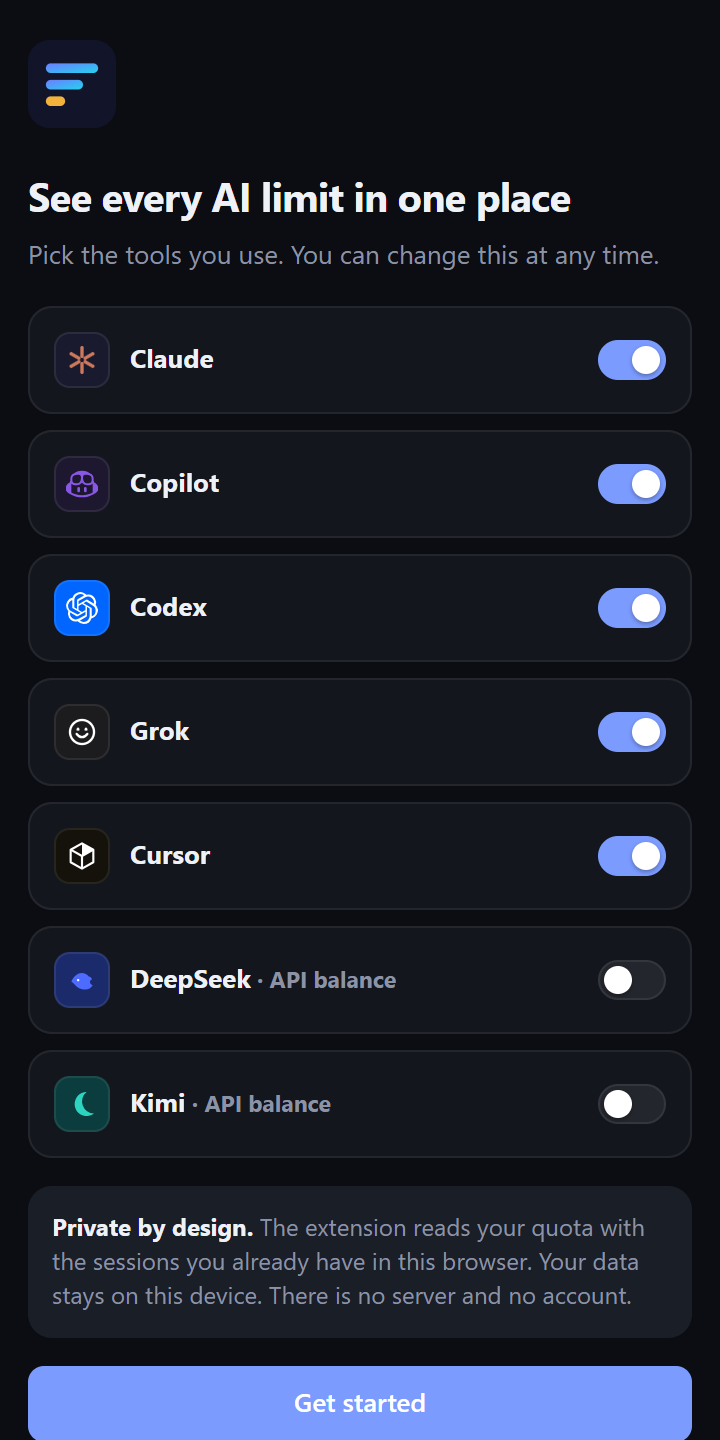
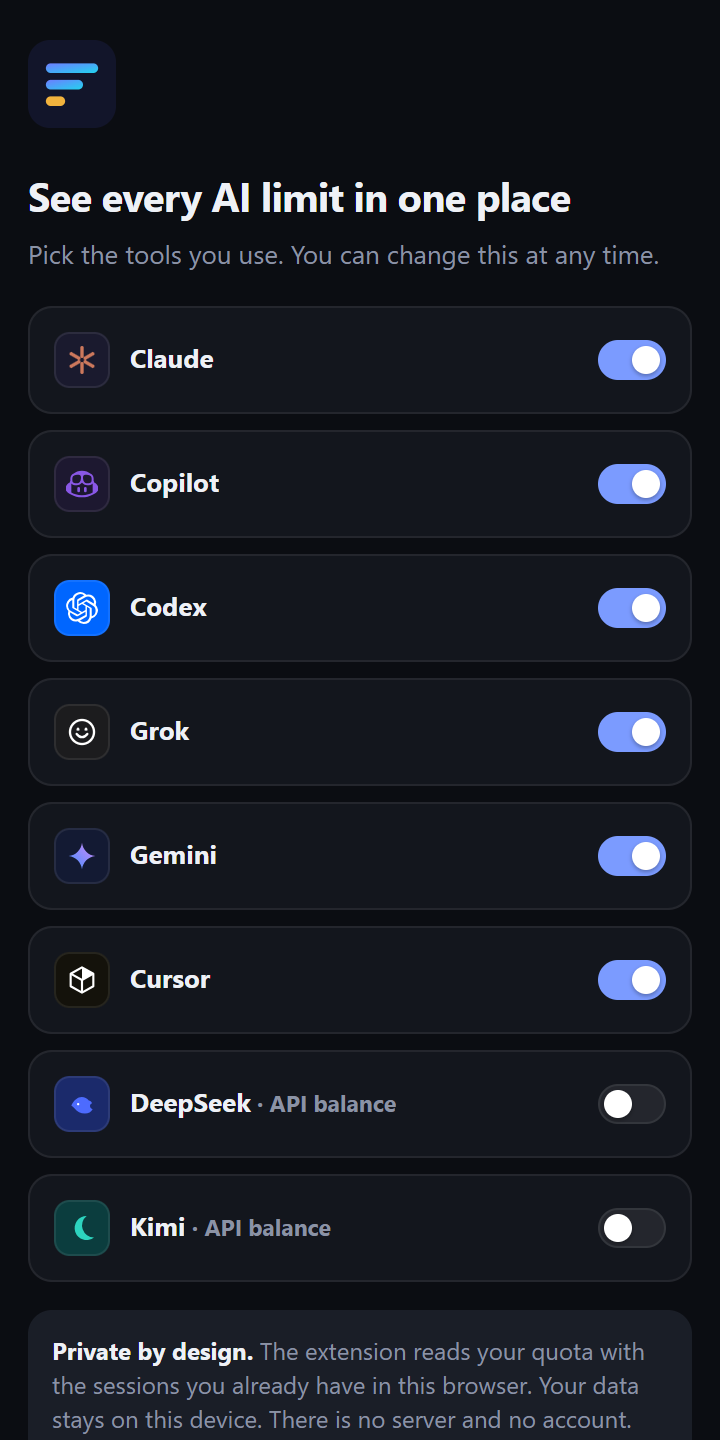
Add Gemini usage and release 3.1.0
- Read the Gemini 5-hour and weekly limits from the private jSf9Qc
  RPC behind gemini.google.com/usage (captured in issue #66).
- Pure mapGeminiUsage and extractBatchexecutePayload in core, with tests.
- Run the fetcher in the worker and in the gemini.google.com bridge.
- Add Gemini to the privacy policy, store text, website and art.

diff --git a/packages/core/src/gemini.ts b/packages/core/src/gemini.ts
@@ -1,0 +1,73 @@
+import type { QuotaState } from './types.js';
+
+/**
+ * Gemini app usage. Private batchexecute RPC `jSf9Qc` on gemini.google.com
+ * (the Settings > Usage limits page). Captured in issue #66.
+ * Payload: [version, windows[], flag]. Each window: [limit, used, type, [[resetSeconds, nanos]]].
+ * Type 1 = 5-hour window (session). Type 2 = weekly.
+ */
+
+export const GEMINI_USAGE_RPC = 'jSf9Qc';
+
+/** Inner payload of one RPC from a batchexecute response body (after the `)]}'` guard). */
+export function extractBatchexecutePayload(body: string, rpcId: string): unknown {
+  for (const line of body.split('\n')) {
+    if (!line.startsWith('[[')) continue;
+    let frames: unknown;
+    try {
+      frames = JSON.parse(line);
+    } catch {
+      continue;
+    }
+    if (!Array.isArray(frames)) continue;
+    for (const frame of frames) {
+      if (Array.isArray(frame) && frame[0] === 'wrb.fr' && frame[1] === rpcId && typeof frame[2] === 'string') {
+        try {
+          return JSON.parse(frame[2]);
+        } catch {
+          return undefined;
+        }
+      }
+    }
+  }
+  return undefined;
+}
+
+export function geminiUsageUnknown(lastUpdated: number = Date.now()): QuotaState {
+  return { service: 'gemini', honesty: 'usage_unknown', lastUpdated };
+}
+
+interface Window {
+  pct: number;
+  resetsAt?: number;
+}
+
+function readWindow(raw: unknown): (Window & { type: number }) | undefined {
+  if (!Array.isArray(raw)) return undefined;
+  const [limit, used, type, reset] = raw;
+  if (typeof limit !== 'number' || typeof used !== 'number' || typeof type !== 'number') return undefined;
+  // ponytail: used > limit means the field order changed; refuse rather than guess.
+  if (limit <= 0 || used < 0 || used > limit) return undefined;
+  const pct = Math.round(((limit - used) / limit) * 100);
+  const seconds = Array.isArray(reset) && Array.isArray(reset[0]) ? reset[0][0] : undefined;
+  return typeof seconds === 'number' && seconds > 0 ? { type, pct, resetsAt: seconds * 1000 } : { type, pct };
+}
+
+export function mapGeminiUsage(payload: unknown, lastUpdated: number = Date.now()): QuotaState {
+  if (!Array.isArray(payload) || !Array.isArray(payload[1])) return geminiUsageUnknown(lastUpdated);
+  const windows = (payload[1] as unknown[]).map(readWindow);
+  const session = windows.find((w) => w?.type === 1);
+  const weekly = windows.find((w) => w?.type === 2);
+  if (!session && !weekly) return geminiUsageUnknown(lastUpdated);
+
+  const state: QuotaState = { service: 'gemini', lastUpdated };
+  if (session) {
+    state.sessionPct = session.pct;
+    if (session.resetsAt != null) state.sessionResetsAt = session.resetsAt;
+  }
+  if (weekly) {
+    state.weeklyPct = weekly.pct;
+    if (weekly.resetsAt != null) state.weeklyResetsAt = weekly.resetsAt;
+  }
+  return state;
+}

diff --git a/packages/chrome-ext/src/background/fetchers/gemini.ts b/packages/chrome-ext/src/background/fetchers/gemini.ts
@@ -1,0 +1,50 @@
+import type { QuotaState } from '@ai-quota-tool/core';
+import {
+  extractBatchexecutePayload,
+  GEMINI_USAGE_RPC,
+  geminiUsageUnknown,
+  mapGeminiUsage,
+  sessionExpired,
+} from '@ai-quota-tool/core';
+import type { ServiceFetcher } from './base.js';
+
+// Private RPC behind gemini.google.com/usage (issue #66). The page tokens
+// (at = SNlM0e, bl = cfb2h) come from the app HTML; cookies carry auth.
+const ORIGIN = 'https://gemini.google.com';
+
+function pageToken(html: string, key: string): string | undefined {
+  return new RegExp(`"${key}":"([^"]+)"`).exec(html)?.[1];
+}
+
+export class GeminiFetcher implements ServiceFetcher {
+  readonly serviceId = 'gemini' as const;
+
+  async fetch(): Promise<QuotaState> {
+    const now = Date.now();
+    const page = await fetch(`${ORIGIN}/app`, { credentials: 'include' });
+    if (!page.ok) throw new Error(`Gemini page returned ${page.status}`);
+    const html = await page.text();
+    const at = pageToken(html, 'SNlM0e');
+    const bl = pageToken(html, 'cfb2h');
+    // No XSRF token means no signed-in session.
+    if (!at || !bl) return sessionExpired('gemini', now);
+
+    const body = new URLSearchParams({
+      'f.req': JSON.stringify([[[GEMINI_USAGE_RPC, '[]', null, 'generic']]]),
+      at,
+    });
+    const res = await fetch(
+      `${ORIGIN}/_/BardChatUi/data/batchexecute?rpcids=${GEMINI_USAGE_RPC}&source-path=%2Fusage&bl=${encodeURIComponent(bl)}&rt=c`,
+      {
+        method: 'POST',
+        credentials: 'include',
+        headers: { 'Content-Type': 'application/x-www-form-urlencoded;charset=UTF-8' },
+        body,
+      },
+    );
+    if (res.status === 401) return sessionExpired('gemini', now);
+    if (!res.ok) throw new Error(`Gemini usage RPC returned ${res.status}`);
+    const payload = extractBatchexecutePayload(await res.text(), GEMINI_USAGE_RPC);
+    return payload === undefined ? geminiUsageUnknown(now) : mapGeminiUsage(payload, now);
+  }
+}

diff --git a/packages/core/src/gemini.test.ts b/packages/core/src/gemini.test.ts
@@ -1,0 +1,55 @@
+import { describe, expect, it } from 'vitest';
+import { extractBatchexecutePayload, mapGeminiUsage } from './gemini.js';
+
+const RAW = `)]}'
+
+188
+[["wrb.fr","jSf9Qc","[2,[[48384,0,2,[[1790777593,651754000]]],[2400,0,1,[[1790230393,651662000]]]],false]",null,null,null,"generic"],["di",222]]
+25
+[["e",4,null,null,224]]
+`;
+
+describe('extractBatchexecutePayload', () => {
+  it('returns the inner JSON for the RPC id', () => {
+    expect(extractBatchexecutePayload(RAW, 'jSf9Qc')).toEqual([
+      2,
+      [
+        [48384, 0, 2, [[1790777593, 651754000]]],
+        [2400, 0, 1, [[1790230393, 651662000]]],
+      ],
+      false,
+    ]);
+  });
+
+  it('returns undefined for another id or a bad body', () => {
+    expect(extractBatchexecutePayload(RAW, 'other')).toBeUndefined();
+    expect(extractBatchexecutePayload('nope', 'jSf9Qc')).toBeUndefined();
+  });
+});
+
+describe('mapGeminiUsage', () => {
+  it('maps the 5-hour window to session and the weekly window to weekly', () => {
+    const payload = [2, [[48384, 12096, 2, [[1790777593, 0]]], [2400, 600, 1, [[1790230393, 0]]]], false];
+    expect(mapGeminiUsage(payload, 5)).toEqual({
+      service: 'gemini',
+      sessionPct: 75,
+      sessionResetsAt: 1790230393000,
+      weeklyPct: 75,
+      weeklyResetsAt: 1790777593000,
+      lastUpdated: 5,
+    });
+  });
+
+  it('reads zero usage as 100% left', () => {
+    const payload = extractBatchexecutePayload(RAW, 'jSf9Qc');
+    const state = mapGeminiUsage(payload, 1);
+    expect(state.sessionPct).toBe(100);
+    expect(state.weeklyPct).toBe(100);
+  });
+
+  it('never invents a percent from an unknown shape', () => {
+    for (const payload of [undefined, null, [], [2, 'x'], [2, [[0, 0, 1, []]]], [2, [[10, 20, 1, []]]]]) {
+      expect(mapGeminiUsage(payload, 1)).toEqual({ service: 'gemini', honesty: 'usage_unknown', lastUpdated: 1 });
+    }
+  });
+});

diff --git a/site/index.html b/site/index.html
@@ -6,7 +6,7 @@
     <title>AI Quota Tool - every AI limit in one glance</title>
     <meta
       name="description"
-      content="Free Chrome extension. See your Claude, Codex, Copilot, Cursor and Grok limits in one side panel. Private, no account, no server."
+      content="Free Chrome extension. See your Claude, Codex, Gemini, Cursor, Copilot and Grok limits in one side panel. Private, no account, no server."
     />
     <meta property="og:title" content="AI Quota Tool" />
     <meta property="og:description" content="Every AI limit in one glance. Free, private, no account." />
@@ -103,7 +103,7 @@
           <div>
             <h1>Every AI limit in one glance</h1>
             <p class="lead">
-              See your Claude, Codex, Copilot, Cursor and Grok limits in the Chrome side panel. Know what is
+              See your Claude, Codex, Gemini, Cursor, Copilot and Grok limits in the Chrome side panel. Know what is
               left and when it resets, before a limit stops your work.
             </p>
             <div class="cta">
@@ -155,7 +155,7 @@
         <h2>Works with the tools you use</h2>
         <div class="providers">
           <span class="chip">Claude</span><span class="chip">Codex (ChatGPT)</span><span class="chip">GitHub Copilot</span>
-          <span class="chip">Cursor</span><span class="chip">Grok</span><span class="chip">DeepSeek API balance</span>
+          <span class="chip">Gemini</span><span class="chip">Cursor</span><span class="chip">Grok</span><span class="chip">DeepSeek API balance</span>
           <span class="chip">Kimi API balance</span>
         </div>
       </section>

diff --git a/packages/chrome-ext/store/art.html b/packages/chrome-ext/store/art.html
@@ -155,7 +155,7 @@
             <div style="position:absolute;left:100px;top:0;bottom:0;width:640px;display:flex;flex-direction:column;justify-content:center;gap:24px">
               <div style="display:flex;align-items:center;gap:20px">${mark(88)}<span class="name" style="font-size:60px">AI Quota Tool</span></div>
               <h1 class="headline" style="font-size:44px">See every AI limit before it stops your work</h1>
-              <p class="sub" style="font-size:22px">Claude · Codex · Copilot · Cursor · Grok · DeepSeek · Kimi</p>
+              <p class="sub" style="font-size:22px">Claude · Codex · Gemini · Cursor · Copilot · Grok</p>
             </div>
             <img class="panel fade" src="panels/dashboard-dark.png" style="position:absolute;right:120px;top:60px;height:760px" />
           </div>`,
@@ -163,7 +163,7 @@
           shot(
             'All your AI tools',
             'Every AI limit in one glance',
-            'Session, weekly and monthly limits for Claude, Codex, Cursor, Grok and more. Live in the Chrome side panel.',
+            'Session, weekly and monthly limits for Claude, Codex, Gemini, Cursor and more. Live in the Chrome side panel.',
             panel('dashboard-dark'),
           ),
         shot2: () =>

diff --git a/packages/ui/src/components/QuotaPendingCard.tsx b/packages/ui/src/components/QuotaPendingCard.tsx
@@ -1,13 +1,14 @@
 import type React from 'react';
 import type { ServiceId } from '@ai-quota-tool/core';
 import { SERVICE_COLORS, SERVICE_LABELS } from '@ai-quota-tool/core';
-import { ClaudeLogo, CopilotLogo, CodexLogo, CursorLogo, DeepSeekLogo, GrokLogo, KimiLogo } from './logos.js';
+import { ClaudeLogo, CopilotLogo, CodexLogo, CursorLogo, DeepSeekLogo, GeminiLogo, GrokLogo, KimiLogo } from './logos.js';
 
 const LOGOS: Record<ServiceId, React.ReactNode> = {
   claude: <ClaudeLogo size={20} />,
   copilot: <CopilotLogo size={20} />,
   codex: <CodexLogo size={20} />,
   grok: <GrokLogo size={20} />,
+  gemini: <GeminiLogo size={20} />,
   cursor: <CursorLogo size={20} />,
   deepseek: <DeepSeekLogo size={20} />,
   kimi: <KimiLogo size={20} />,
@@ -19,6 +20,7 @@ const PENDING_HINTS: Record<ServiceId, string> = {
   copilot: 'Sign in to GitHub for seat status (remaining % often unavailable)',
   codex: 'Set up a ChatGPT session token, or open chatgpt.com while signed in',
   grok: 'Set up a grok.com sso cookie in Set Up Accounts',
+  gemini: 'Open gemini.google.com while signed in',
   cursor: 'Open cursor.com while signed in',
   deepseek: 'Paste an API key from platform.deepseek.com',
   kimi: 'Paste an API key from platform.kimi.ai',

diff --git a/packages/chrome-ext/src/content/quota-bridge.ts b/packages/chrome-ext/src/content/quota-bridge.ts
@@ -1,15 +1,17 @@
-// Runs inside the claude.ai / chatgpt.com page context, so fetch() is same-origin
+// Runs inside the claude.ai / chatgpt.com / gemini.google.com page context, so fetch() is same-origin
 // — bypassing the CORS restrictions that block extension service workers from
 // hitting these internal quota APIs.
 import type { QuotaState } from '@ai-quota-tool/core';
 import { ClaudeFetcher } from '../background/fetchers/claude.js';
 import { CodexFetcher } from '../background/fetchers/codex.js';
+import { GeminiFetcher } from '../background/fetchers/gemini.js';
 
 type BridgeFetcher = { fetch(): Promise<QuotaState> };
 
 const SITE_FETCHERS: Partial<Record<string, BridgeFetcher>> = {
   'claude.ai': new ClaudeFetcher(),
   'chatgpt.com': new CodexFetcher(),
+  'gemini.google.com': new GeminiFetcher(),
 };
 
 async function fetchAndReport(): Promise<void> {

diff --git a/packages/ui/src/components/logos.tsx b/packages/ui/src/components/logos.tsx
@@ -133,3 +133,18 @@ export function CursorLogo({ size = 20 }: { size?: number }) {
     </svg>
   );
 }
+
+/** Simple original four-point mark for Gemini (not an official brand asset). */
+export function GeminiLogo({ size = 20 }: { size?: number }) {
+  return (
+    <svg width={size} height={size} viewBox="0 0 24 24" fill="none" xmlns="http://www.w3.org/2000/svg">
+      <defs>
+        <linearGradient id="aq-gemini" x1="4" y1="20" x2="20" y2="4" gradientUnits="userSpaceOnUse">
+          <stop offset="0" stopColor="#4f8dfd" />
+          <stop offset="1" stopColor="#c58af9" />
+        </linearGradient>
+      </defs>
+      <path d="M12 2c.6 5.3 4.7 9.4 10 10-5.3.6-9.4 4.7-10 10-.6-5.3-4.7-9.4-10-10 5.3-.6 9.4-4.7 10-10Z" fill="url(#aq-gemini)" />
+    </svg>
+  );
+}

diff --git a/packages/ui/src/components/ServiceHeader.tsx b/packages/ui/src/components/ServiceHeader.tsx
@@ -1,13 +1,14 @@
 import type React from 'react';
 import type { ServiceId } from '@ai-quota-tool/core';
 import { SERVICE_LABELS } from '@ai-quota-tool/core';
-import { ClaudeLogo, CopilotLogo, CodexLogo, CursorLogo, DeepSeekLogo, GrokLogo, KimiLogo } from './logos.js';
+import { ClaudeLogo, CopilotLogo, CodexLogo, CursorLogo, DeepSeekLogo, GeminiLogo, GrokLogo, KimiLogo } from './logos.js';
 
 const LOGOS: Record<ServiceId, React.ReactNode> = {
   claude: <ClaudeLogo size={20} />,
   copilot: <CopilotLogo size={20} />,
   codex: <CodexLogo size={20} />,
   grok: <GrokLogo size={20} />,
+  gemini: <GeminiLogo size={20} />,
   cursor: <CursorLogo size={20} />,
   deepseek: <DeepSeekLogo size={20} />,
   kimi: <KimiLogo size={20} />,

diff --git a/packages/chrome-ext/src/background/providers.ts b/packages/chrome-ext/src/background/providers.ts
@@ -6,6 +6,7 @@ import { CodexFetcher } from './fetchers/codex.js';
 import { CopilotFetcher } from './fetchers/copilot.js';
 import { CursorFetcher } from './fetchers/cursor.js';
 import { DeepSeekFetcher } from './fetchers/deepseek.js';
+import { GeminiFetcher } from './fetchers/gemini.js';
 import { GrokFetcher } from './fetchers/grok.js';
 import { KimiFetcher } from './fetchers/kimi.js';
 
@@ -18,6 +19,7 @@ const FETCHER_FACTORIES = {
   copilot: () => new CopilotFetcher(),
   codex: () => new CodexFetcher(),
   grok: () => new GrokFetcher(),
+  gemini: () => new GeminiFetcher(),
   cursor: () => new CursorFetcher(),
   deepseek: () => new DeepSeekFetcher(),
   kimi: () => new KimiFetcher(),

diff --git a/packages/chrome-ext/src/sidepanel/shared.tsx b/packages/chrome-ext/src/sidepanel/shared.tsx
@@ -5,6 +5,7 @@ export const SERVICE_HINTS: Record<ServiceId, string> = {
   codex: 'Sign in at chatgpt.com in this browser. Your Codex quota shows here within a minute.',
   copilot: 'Connect GitHub to check your Copilot plan. GitHub does not share a remaining %.',
   grok: 'Sign in at grok.com in this browser. Your quota shows here within a minute.',
+  gemini: 'Sign in at gemini.google.com in this browser. Your quota shows here within a minute.',
   cursor: 'Sign in at cursor.com in this browser. Your monthly usage shows here within a minute.',
   deepseek: 'Add an API key from platform.deepseek.com to see your balance.',
   kimi: 'Add an API key from platform.kimi.ai to see your balance.',

diff --git a/packages/core/src/enabled.test.ts b/packages/core/src/enabled.test.ts
@@ -4,7 +4,7 @@ import { DEFAULT_ENABLED_SERVICES, filterEnabled, resolveEnabledServices } from 
 describe('resolveEnabledServices', () => {
   it('uses the default list when nothing is stored', () => {
     expect(resolveEnabledServices(undefined)).toEqual(DEFAULT_ENABLED_SERVICES);
-    expect(DEFAULT_ENABLED_SERVICES).toEqual(['claude', 'copilot', 'codex', 'grok', 'cursor']);
+    expect(DEFAULT_ENABLED_SERVICES).toEqual(['claude', 'copilot', 'codex', 'grok', 'gemini', 'cursor']);
   });
 
   it('keeps catalog order and drops unknown or repeated ids', () => {
